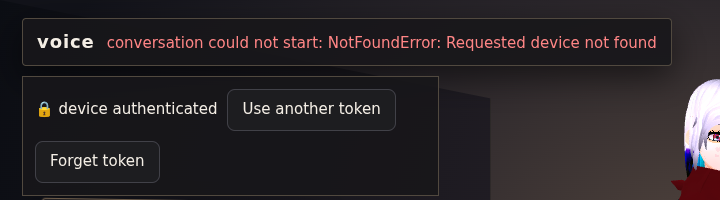
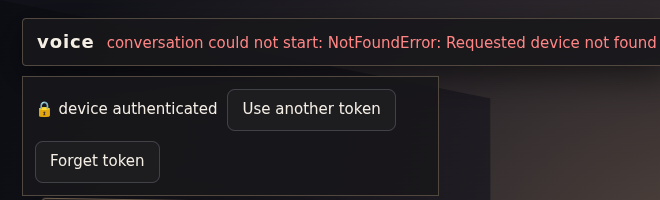
Derive smoke evidence crops from the stage canvas rect
Every captured frame now takes the largest viewport band that clears the
puppet canvas rectangle, computed from the element's own geometry rather
than a fixed pixel width, and a run that did not load the neutral
silhouette refuses to capture at all when no band clears the stage.
Re-crop the committed header frame to the same stage-free region.

diff --git a/test/page.test.js b/test/page.test.js
@@ -6,7 +6,7 @@ import { createServer } from 'node:http';
 import { join } from 'node:path';
 import test from 'node:test';
 import { promisify } from 'node:util';
-import { assessSmoke, smokeLimits, smokeViewports, transitionFrameSampler } from './smoke-measurements.js';
+import { assessSmoke, clipClearsStage, evidenceRegion, smokeLimits, smokeViewports, transitionFrameSampler } from './smoke-measurements.js';
 
 const execute = promisify(execFile);
 
@@ -386,6 +386,39 @@ test('smoke assessment rejects every measured browser failure and accepts a clea
     { heights: [{ canvas: 100, stage: 200 }, { canvas: 102, stage: 200 }] },
     { blankFrames: [1] }, { frameGaps: [51] }, { errors: ['fault'] }, { telemetryRejections: ['rejected'] },
   ]) assert.equal(assessSmoke({ ...clean, ...mutation }).pass, false, JSON.stringify(mutation));
+});
+
+test('evidence crops follow the stage canvas rect and clear it at every smoke viewport', () => {
+  for (const viewport of smokeViewports) {
+    const page = { x: 0, y: 0, width: viewport.width, height: viewport.height };
+    const canvas = { left: viewport.width * 0.32, right: viewport.width * 0.68, top: 0, bottom: viewport.height * 0.86 };
+    const region = evidenceRegion({ neutralSilhouette: false, canvas, viewport: page });
+    assert.ok(region.width > 0 && region.height > 0, viewport.name);
+    assert.equal(clipClearsStage(region, canvas), true, `${viewport.name}: ${JSON.stringify(region)}`);
+    const shifted = { ...canvas, left: canvas.left + 40, right: canvas.right + 40 };
+    const shiftedRegion = evidenceRegion({ neutralSilhouette: false, canvas: shifted, viewport: page });
+    assert.notDeepEqual(shiftedRegion, region, `${viewport.name}: crop must track the canvas, not a fixed width`);
+    assert.equal(clipClearsStage(shiftedRegion, shifted), true, viewport.name);
+  }
+});
+
+test('evidence crops stay within the visible band of a scrolled page', () => {
+  const viewport = { x: 0, y: 900, width: 390, height: 844 };
+  const canvas = { left: 19.5, right: 370.5, top: 930, bottom: 1600 };
+  const region = evidenceRegion({ neutralSilhouette: false, canvas, viewport });
+  assert.equal(clipClearsStage(region, canvas), true, JSON.stringify(region));
+  assert.ok(region.x >= viewport.x && region.x + region.width <= viewport.x + viewport.width, JSON.stringify(region));
+  assert.ok(region.y >= viewport.y && region.y + region.height <= viewport.y + viewport.height, JSON.stringify(region));
+  const whole = { x: viewport.x, y: viewport.y, width: viewport.width, height: viewport.height };
+  for (const offscreen of [{ left: 19.5, right: 370.5, top: 100, bottom: 200 }, { left: -500.5, right: -100.5, top: 930, bottom: 1600 }])
+    assert.deepEqual(evidenceRegion({ neutralSilhouette: false, canvas: offscreen, viewport }), whole, JSON.stringify(offscreen));
+});
+
+test('a run that did not load the neutral silhouette refuses a full-bleed stage', () => {
+  const viewport = { x: 0, y: 0, width: 1440, height: 900 };
+  const canvas = { left: 0, right: 1440, top: 0, bottom: 900 };
+  assert.throws(() => evidenceRegion({ neutralSilhouette: false, canvas, viewport }), /neutral silhouette/);
+  assert.deepEqual(evidenceRegion({ neutralSilhouette: true, canvas, viewport }), viewport);
 });
 
 for (const viewport of layoutViewports) test(`stage UI stays outside the puppet projection at ${viewport.name} size`, async () => {

diff --git a/test/smoke-measurements.js b/test/smoke-measurements.js
@@ -10,6 +10,34 @@ export const smokeLimits = {
   droppedFrameMs: 50,
 };
 
+function stageSafeClip(canvas, viewport) {
+  const viewportRight = viewport.x + viewport.width;
+  const viewportBottom = viewport.y + viewport.height;
+  const clampX = (value) => Math.min(Math.max(value, viewport.x), viewportRight);
+  const clampY = (value) => Math.min(Math.max(value, viewport.y), viewportBottom);
+  const stageLeft = clampX(Math.floor(canvas.left));
+  const stageRight = clampX(Math.ceil(canvas.right));
+  const stageTop = clampY(Math.floor(canvas.top));
+  const stageBottom = clampY(Math.ceil(canvas.bottom));
+  return [
+    { x: viewport.x, y: viewport.y, width: stageLeft - viewport.x, height: viewport.height },
+    { x: stageRight, y: viewport.y, width: viewportRight - stageRight, height: viewport.height },
+    { x: viewport.x, y: viewport.y, width: viewport.width, height: stageTop - viewport.y },
+    { x: viewport.x, y: stageBottom, width: viewport.width, height: viewportBottom - stageBottom },
+  ].filter((band) => band.width > 0 && band.height > 0).sort((a, b) => b.width * b.height - a.width * a.height)[0] ?? null;
+}
+
+export function clipClearsStage(clip, canvas) {
+  return clip.x + clip.width <= canvas.left || clip.x >= canvas.right || clip.y + clip.height <= canvas.top || clip.y >= canvas.bottom;
+}
+
+export function evidenceRegion({ neutralSilhouette, canvas, viewport }) {
+  if (neutralSilhouette) return { ...viewport };
+  const clip = stageSafeClip(canvas, viewport);
+  if (!clip) throw new Error('no part of the viewport clears the stage canvas, and this run did not load the neutral silhouette');
+  return clip;
+}
+
 export function transitionFrameSampler(gaps, limit, schedule = requestAnimationFrame, cancel = cancelAnimationFrame) {
   let frameId;
   let lastFrame;
